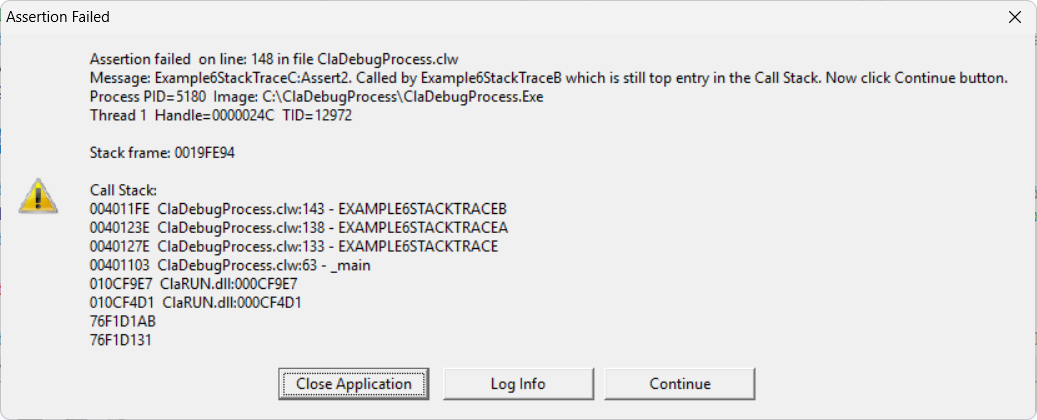
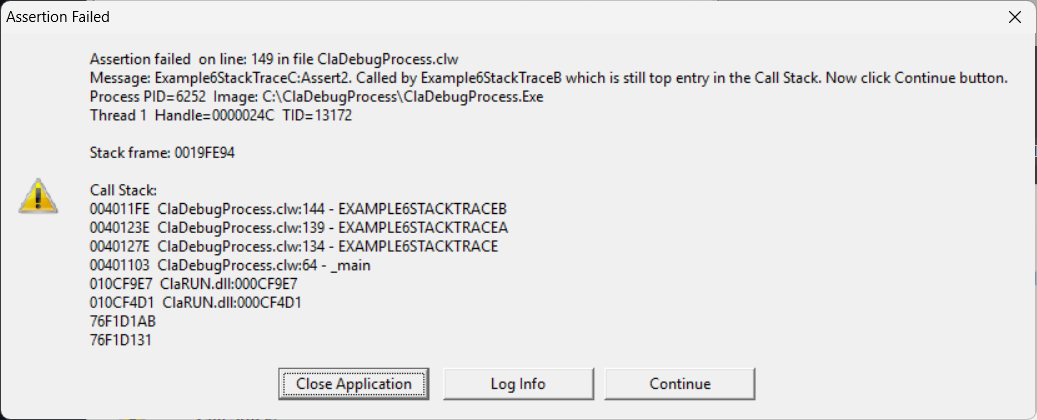
update

diff --git a/README.md b/README.md
@@ -55,6 +55,7 @@ CallDebuggerNE                      PROCEDURE(),Long,Proc
         End
     !DebugOnly
     Omit('ReleaseOnly',_DEBUG_)
+        !Comment this Halt() to test Example4Omit_Debug_CompilerFlag()
         Halt(0,'You cant debug with Build Configuration set to Release')
     !ReleaseOnly
 
@@ -87,7 +88,7 @@ Loc:MessageResult   Long
     IF Loc:MessageResult = 2 or Loc:MessageResult = 3
         MEssage('Wait for the Debugger to load,<32,10>' & |
                 'then click Window, Source, and select a "filename.clw",<32,10>' & |
-                'then set a Breakpoint on Line 79.<32,10>' & |
+                'then set a Breakpoint on Line 85.<32,10>' & |
                 'When that is done, come back to this message box and click the OK button below.','Example1')
         Glo:SVCstring = 'Case Message - CallDeubgger() or CallDebuggerNE()'
         Message(Glo:SVCstring &'<32,10>'& Glo:CSIDL_FolderPath,'Example1CaseMessage')
@@ -99,7 +100,7 @@ Example2IfConditionAssert    Procedure
     ! If Condition CallDebugger() and standard Assert()
     IF Glo:SomeCondition = True 
         CallDebugger()  
-        Assert(0,'Example2IfConditionAssert:Debugger, Window, Source, select Filename.clw, Breakpoint Line 90, then return here, click Continue button below.')
+        Assert(0,'Example2IfConditionAssert:Debugger, Window, Source, select Filename.clw, Breakpoint Line 96, then return here, click Continue button below.')
         Glo:SVCstring = 'If Condition, CallDebugger() and standard Assert()'
         Message(Glo:SVCstring &'<32,10>'& Glo:CSIDL_FolderPath,'Example2IfConditionAssert')
     End
@@ -108,7 +109,7 @@ Example3Compile_Debug_CompilerFlag    Procedure()
     Code
     ! CallDebugger() is appended to the Assert Message - it should return 0  
     Compile('DebugOnly',_DEBUG_) 
-        Assert(0,'Example3Compile_Debug_CompilerFlag:Debugger, Window, Source, select Filename.clw, Breakpoint Line 99, then return here, click Continue button below.' & CallDebugger())
+        Assert(0,'Example3Compile_Debug_CompilerFlag:Debugger, Window, Source, select Filename.clw, Breakpoint Line 105, then return here, click Continue button below.' & CallDebugger())
         Glo:SVCstring = 'CallDebugger() is appended to the Assert Message'
         Message(Glo:SVCstring &'|'& Glo:CSIDL_FolderPath,'Example3Compile_Debug_CompilerFlag')
     !DebugOnly
@@ -121,7 +122,7 @@ Example4Omit_Debug_CompilerFlag    Procedure()
     ! from the IDE.
     ! CallDebuggerNE() is added to the Assert Expression - it should return 0
     Omit('ReleaseOnly',_DEBUG_) 
-        Assert(0+CallDebuggerNE(),'Example4Omit_Debug_CompilerFlag:Debugger, Window, Source, select Filename.clw, Breakpoint Line 109, then return here, click Continue button below.' )
+        Assert(0+CallDebuggerNE(),'Example4Omit_Debug_CompilerFlag:Debugger, Window, Source, select Filename.clw, Breakpoint Line 118, then return here, click Continue button below.' )
         Glo:SVCstring = 'You cant debug in Release Mode'
         Message(Glo:SVCstring &'<32,10>'& Glo:CSIDL_FolderPath,'Example4Omit_Debug_CompilerFlag')
     !ReleaseOnly     
@@ -130,7 +131,7 @@ Example5Col1QuestionMark    Procedure()
     Code
     ! All the lines of code starting with ? are only compiled when Build Configuration is set to Debug
     ! CallDebugger() is added to the Assert Expression - it should return 0
-?   Assert(0+CallDebugger(),'Example5Col1QuestionMark:Debugger, Window, Source, select Filename.clw, Breakpoint Line 117, then return here, click Continue button below.' )
+?   Assert(0+CallDebugger(),'Example5Col1QuestionMark:Debugger, Window, Source, select Filename.clw, Breakpoint Line 127, then return here, click Continue button below.' )
 ?   Glo:SVCstring = '? in column 1 for Build Configuration:Debug'
 ?   Message(Glo:SVCstring &'<32,10>'& Glo:CSIDL_FolderPath,'Example5Col1QuestionMark') 
 
@@ -321,7 +322,7 @@ Loc:MessageResult   Long
     IF Loc:MessageResult = 2 or Loc:MessageResult = 3
         MEssage('Wait for the Debugger to load,<32,10>' & |
                 'then click Window, Source, and select a "filename.clw",<32,10>' & |
-                'then set a Breakpoint on Line 79.<32,10>' & |
+                'then set a Breakpoint on Line 85.<32,10>' & |
                 'When that is done, come back to this message box and click the OK button below.','Example1')
         Glo:SVCstring = 'Case Message - CallDeubgger() or CallDebuggerNE()'
         Message(Glo:SVCstring &'<32,10>'& Glo:CSIDL_FolderPath,'Example1CaseMessage')
@@ -343,7 +344,7 @@ Example2IfConditionAssert    Procedure
     ! If Condition CallDebugger() and standard Assert()
     IF Glo:SomeCondition = True 
         CallDebugger()  
-        Assert(0,'Debugger, Window, Source, select Filename.clw, Breakpoint Line 90, then return here, click Continue button below.')
+        Assert(0,'Example2IfConditionAssert:Debugger, Window, Source, select Filename.clw, Breakpoint Line 96, then return here, click Continue button below.')
         Glo:SVCstring = 'If Condition, CallDebugger() and standard Assert()'
         Message(Glo:SVCstring &'<32,10>'& Glo:CSIDL_FolderPath,'Example2IfConditionAssert')
     End
@@ -357,7 +358,7 @@ Example3Compile_Debug_CompilerFlag    Procedure()
     Code
     ! CallDebugger() is appended to the Assert Message - it should return 0  
     Compile('DebugOnly',_DEBUG_) 
-        Assert(0,'Debugger, Window, Source, select Filename.clw, Breakpoint Line 99, then return here, click Continue button below.' & CallDebugger())
+        Assert(0,'Example3Compile_Debug_CompilerFlag:Debugger, Window, Source, select Filename.clw, Breakpoint Line 105, then return here, click Continue button below.' & CallDebugger())
         Glo:SVCstring = 'CallDebugger() is appended to the Assert Message'
         Message(Glo:SVCstring &'|'& Glo:CSIDL_FolderPath,'Example3Compile_Debug_CompilerFlag')
     !DebugOnly
@@ -371,12 +372,15 @@ This example use the ```Omit``` directive to instuct the compiler to exclude the
 Example4Omit_Debug_CompilerFlag    Procedure()
     Code
     ! You cant debug a Release version in reality, but demonstrates how ClaDBne.exe could be called.
+    ! Whilst its good being able to step into the Debugger, if you use multiple Assert()'s, using the Non Elevated
+    ! removes the UAC prompt choice to not launch the debugger when not using the Debugger to start the program
+    ! from the IDE.
     ! CallDebuggerNE() is added to the Assert Expression - it should return 0
     Omit('ReleaseOnly',_DEBUG_) 
-        Assert(0+CallDebuggerNE(),'Debugger, Window, Source, select Filename.clw, Breakpoint Line 109, then return here, click Continue button below.' )
+        Assert(0+CallDebuggerNE(),'Example4Omit_Debug_CompilerFlag:Debugger, Window, Source, select Filename.clw, Breakpoint Line 118, then return here, click Continue button below.' )
         Glo:SVCstring = 'You cant debug in Release Mode'
         Message(Glo:SVCstring &'<32,10>'& Glo:CSIDL_FolderPath,'Example4Omit_Debug_CompilerFlag')
-    !ReleaseOnly  
+    !ReleaseOnly
 ```
 
 ### Example5Col1QuestionMark
@@ -386,10 +390,11 @@ This example uses the question mark ```?``` in Column 1 of the Text Editor to in
 ```clarion
 Example5Col1QuestionMark    Procedure()
     Code
-    ! CallDebuggerNE() is added to the Assert Expression - it should return 0
-?   Assert(0+CallDebuggerNE(),'Debugger, Window, Source, select Filename.clw, Breakpoint Line 117, then return here, click Continue button below.' )
+    ! All the lines of code starting with ? are only compiled when Build Configuration is set to Debug
+    ! CallDebugger() is added to the Assert Expression - it should return 0
+?   Assert(0+CallDebugger(),'Example5Col1QuestionMark:Debugger, Window, Source, select Filename.clw, Breakpoint Line 127, then return here, click Continue button below.' )
 ?   Glo:SVCstring = '? in column 1 for Build Configuration:Debug'
-?   Message(Glo:SVCstring &'<32,10>'& Glo:CSIDL_FolderPath,'Example5Col1QuestionMark')
+?   Message(Glo:SVCstring &'<32,10>'& Glo:CSIDL_FolderPath,'Example5Col1QuestionMark') 
 ```
 ![Screenshot](https://github.com/Intelligent-Silicon/Call-Clarion-Debugger-from-running-App/blob/main/Example5Col1QuestionMark.png)
 
@@ -402,18 +407,18 @@ If using the [Debug version of ClaRun.dll](README.md#clarion-debug-runtime), the
 Firstly all the text in the ```Assert()``` window can be selected and copied using a mouse. In this example, you can see the text that appears when the procedure ```Example6StackTraceC``` calls the second ```Assert()```. 
 
 ```
-Assertion failed  on line: 148 in file ClaDebugProcess.clw
+Assertion failed  on line: 149 in file ClaDebugProcess.clw
 Message: Example6StackTraceC:Assert2. Called by Example6StackTraceB which is still top entry in the Call Stack. Now click Continue button.
-Process PID=5180  Image: C:\ClaDebugProcess\ClaDebugProcess.Exe
-Thread 1  Handle=0000024C  TID=12972
+Process PID=6252  Image: C:\ClaDebugProcess\ClaDebugProcess.Exe
+Thread 1  Handle=0000024C  TID=13172
 
 Stack frame: 0019FE94
 
 Call Stack:
-004011FE  ClaDebugProcess.clw:143 - EXAMPLE6STACKTRACEB
-0040123E  ClaDebugProcess.clw:138 - EXAMPLE6STACKTRACEA
-0040127E  ClaDebugProcess.clw:133 - EXAMPLE6STACKTRACE
-00401103  ClaDebugProcess.clw:63 - _main
+004011FE  ClaDebugProcess.clw:144 - EXAMPLE6STACKTRACEB
+0040123E  ClaDebugProcess.clw:139 - EXAMPLE6STACKTRACEA
+0040127E  ClaDebugProcess.clw:134 - EXAMPLE6STACKTRACE
+00401103  ClaDebugProcess.clw:64 - _main
 010CF9E7  ClaRUN.dll:000CF9E7
 010CF4D1  ClaRUN.dll:000CF4D1
 76F1D1AB
@@ -422,17 +427,17 @@ Call Stack:
 At the time of writing the line number shown as ```:nnn``` after the ```filename.clw``` is out by 1, so subtract 1 from each number to get the correct line number. The line numbers should be what can be seen below. 
 ```
 Call Stack:
-004011FE  ClaDebugProcess.clw:142 - EXAMPLE6STACKTRACEB
-0040123E  ClaDebugProcess.clw:137 - EXAMPLE6STACKTRACEA
-0040127E  ClaDebugProcess.clw:132 - EXAMPLE6STACKTRACE
-00401103  ClaDebugProcess.clw:62 - _main
+004011FE  ClaDebugProcess.clw:143 - EXAMPLE6STACKTRACEB
+0040123E  ClaDebugProcess.clw:138 - EXAMPLE6STACKTRACEA
+0040127E  ClaDebugProcess.clw:133 - EXAMPLE6STACKTRACE
+00401103  ClaDebugProcess.clw:63 - _main
 ```
 
 The first column above shows a hex number which represents the memory address where the call originated from. The top line is the address in memory where the call to ```Example6StackTraceC``` originated from ```Example6StackTraceB```.
 
 The centre column above shows the ```filename.clw:nnn``` and the line number in the source code file.
 
-The third column above shows the procedure name that line 142 can be found in. 
+The third column above shows the procedure name that line 143 can be found in. 
 
 The second line above shows the memory address where the call to ```Example6StackTraceB``` is located in ```Example6StackTraceA```.
 
@@ -440,11 +445,11 @@ The third line above shows the memory address where the call to ```Example6Stack
 
 The fourth line above shows the memory address where the call to ```Example6StackTrace``` is located in ```_main``` 
 
-Now if your Hex is a little rusty, or you dont speak fluent Hex (yes some people can do this), a quick way to find out where line ```ClaDebugProcess.clw:142``` fits in the ```MAP``` file below is to convert it into Decimal, [search online for a Hex to Decimal convertor website](https://www.google.com/search?q=hex+to+decimal+converter). The decimal value is the 3rd column seen below.
+Now if your Hex is a little rusty, or you dont speak fluent Hex (yes some people can do this), a quick way to find out where line ```ClaDebugProcess.clw:143``` fits in the ```MAP``` file below is to convert it into Decimal, [search online for a Hex to Decimal convertor website](https://www.google.com/search?q=hex+to+decimal+converter). The decimal value is the 3rd column seen below.
 
 The ```MAP``` file is a summary of where different parts of an ```EXE```, ```DLL``` or ```Lib``` file can be found, these files follows rules based on the [Windows PE (Portable Executable) format](https://learn.microsoft.com/en-us/windows/win32/debug/pe-format).
 
-[C:\ClaDebugProcess\map\debug\ClaDebugProcess.map](https://github.com/Intelligent-Silicon/Call-Clarion-Debugger-from-running-App/blob/main/Source/ClaDebugProcess.map)
+[C:\ClaDebugProcess\map\debug\ClaDebugProcess.map](https://github.com/Intelligent-Silicon/Call-Clarion-Debugger-from-running-App/blob/main/Source/ClaDebugProcess.MAP)
 ```
   40116C EXAMPLE6STACKTRACEC@F - 4198764
   4011C4 EXAMPLE6STACKTRACEB@F - 4198852
@@ -455,13 +460,13 @@ The first line in the Call Stack, memory address ```004011FE``` translates to ``
 
 The general rule is take the first address shown in the ```Assert()``` window ```Call Stack``` and look in the corresponding ```MAP``` file for the procedure with an address thats lower but closest to the address shown in the ```Assert()``` message. 
 
-In this example ```4011C4 EXAMPLE6STACKTRACEB@F - 4198852``` has an address which is lower than ```004011FE``` aka ```4198910``` so it probably resides in the procedure ```Example6StackTraceB```, which we know because we can also see and compile the program source ```ClaDebugProcess.clw``` and it also happens to be on Line 142 of all things!
+In this example ```4011C4 EXAMPLE6STACKTRACEB@F - 4198852``` has an address which is lower than ```004011FE``` aka ```4198910``` so it probably resides in the procedure ```Example6StackTraceB```, which we know because we can also see and compile the program source ```ClaDebugProcess.clw``` and it also happens to be on Line 143 of all things!
 
 Repeat for the 2nd and subsequent lines in the ```Call Stack```.
 
 At this stage, and with a certain level of practice, you wont need to use the ```Debug``` version of the Clarion Runtime, which is why its not included first in the ```*.dll = %BIN%\Debug;%BIN%;%BIN%\AddIns\BackendBindings\ClarionBinding\Common;%ROOT%\Accessory\bin``` ```[Copy]``` section of the default ```Clarion110.RED``` Redirection file.
 
-The rest of ```MAP``` file is worth exploring to become familiar with it but thats beyond the scope of this Repo.
+The rest of the ```MAP``` file is worth exploring to become familiar with it but thats beyond the scope of this Repo.
 
 Anyway when trying to narrow down the source of the problem, we have to start at the top of the ```Call Stack``` and work backwards, so downwards. The number of lines in the ```Call Stack``` can be variable as it depends on how many times a different procedure has been called since the start, which in this case is ```_main```. 
 
